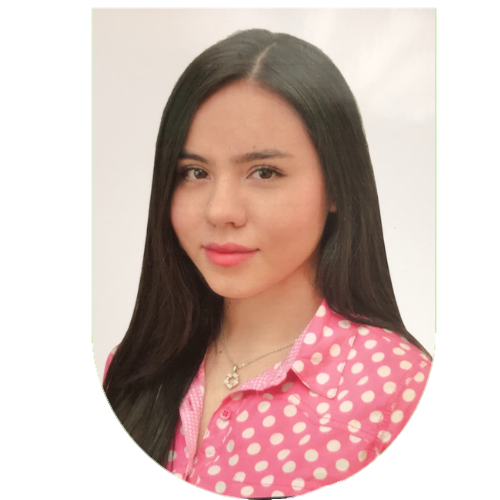
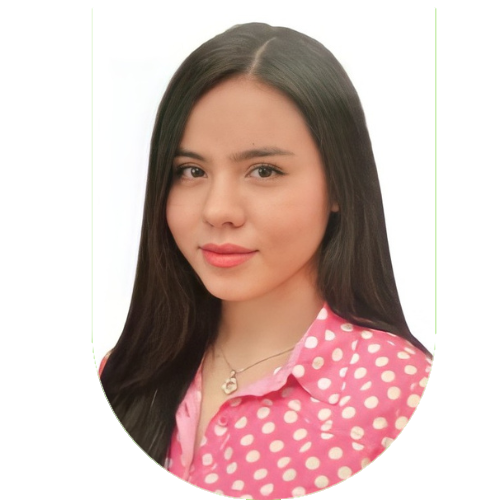
Añadi las fotos a colaboradoras y edite el responsive

diff --git a/src/js/noticias/cosechas.js b/src/js/noticias/cosechas.js
@@ -30,8 +30,8 @@ window.onclick = function(event) {
 
 
 /*FUNCIONES DEL MODAL 2*/
-let modalC2 = document.getElementById("myModalC2");2
-l
+let modalC2 = document.getElementById("myModalC2");
+
 let btnC2 = document.getElementById("myBtnC2");
 
 
@@ -59,7 +59,7 @@ window.onclick = function(event) {
 
 /*FUNCIONES DEL MODAL 3*/
 
-let modalC3 = document.getElementById("myModalC3");2
+let modalC3 = document.getElementById("myModalC3");
 
 let btnC3 = document.getElementById("myBtnC3");
 
@@ -269,7 +269,7 @@ spanc10.onclick = function() {
   modalC10.style.display = "none";
 }
 
-t
+
 window.onclick = function(event) {
   if (event.target == modalC10) {
     modalC10.style.display = "none";

diff --git a/src/pages/Colaboradoras/colaboradoras.html b/src/pages/Colaboradoras/colaboradoras.html
@@ -75,7 +75,7 @@
             <div class="card">
                 <div class="images">
                     <div  class="imgBox">
-                       <img class="person" src="img/ppdiana (1).jpg" alt="">
+                       <img class="person" src="../../utils/images/Colaboradoras/Diana.png" alt="">
                     </div>
                 </div>
                 <!-- contenedor cajas 3 -->

diff --git a/src/css/EstilosEstudio/Estudio_responsive.css b/src/css/EstilosEstudio/Estudio_responsive.css
@@ -2,7 +2,6 @@
 
 @media only screen and (max-width: 1024px) {
 
-
   .MenuNav label{
     display: block;
 }
